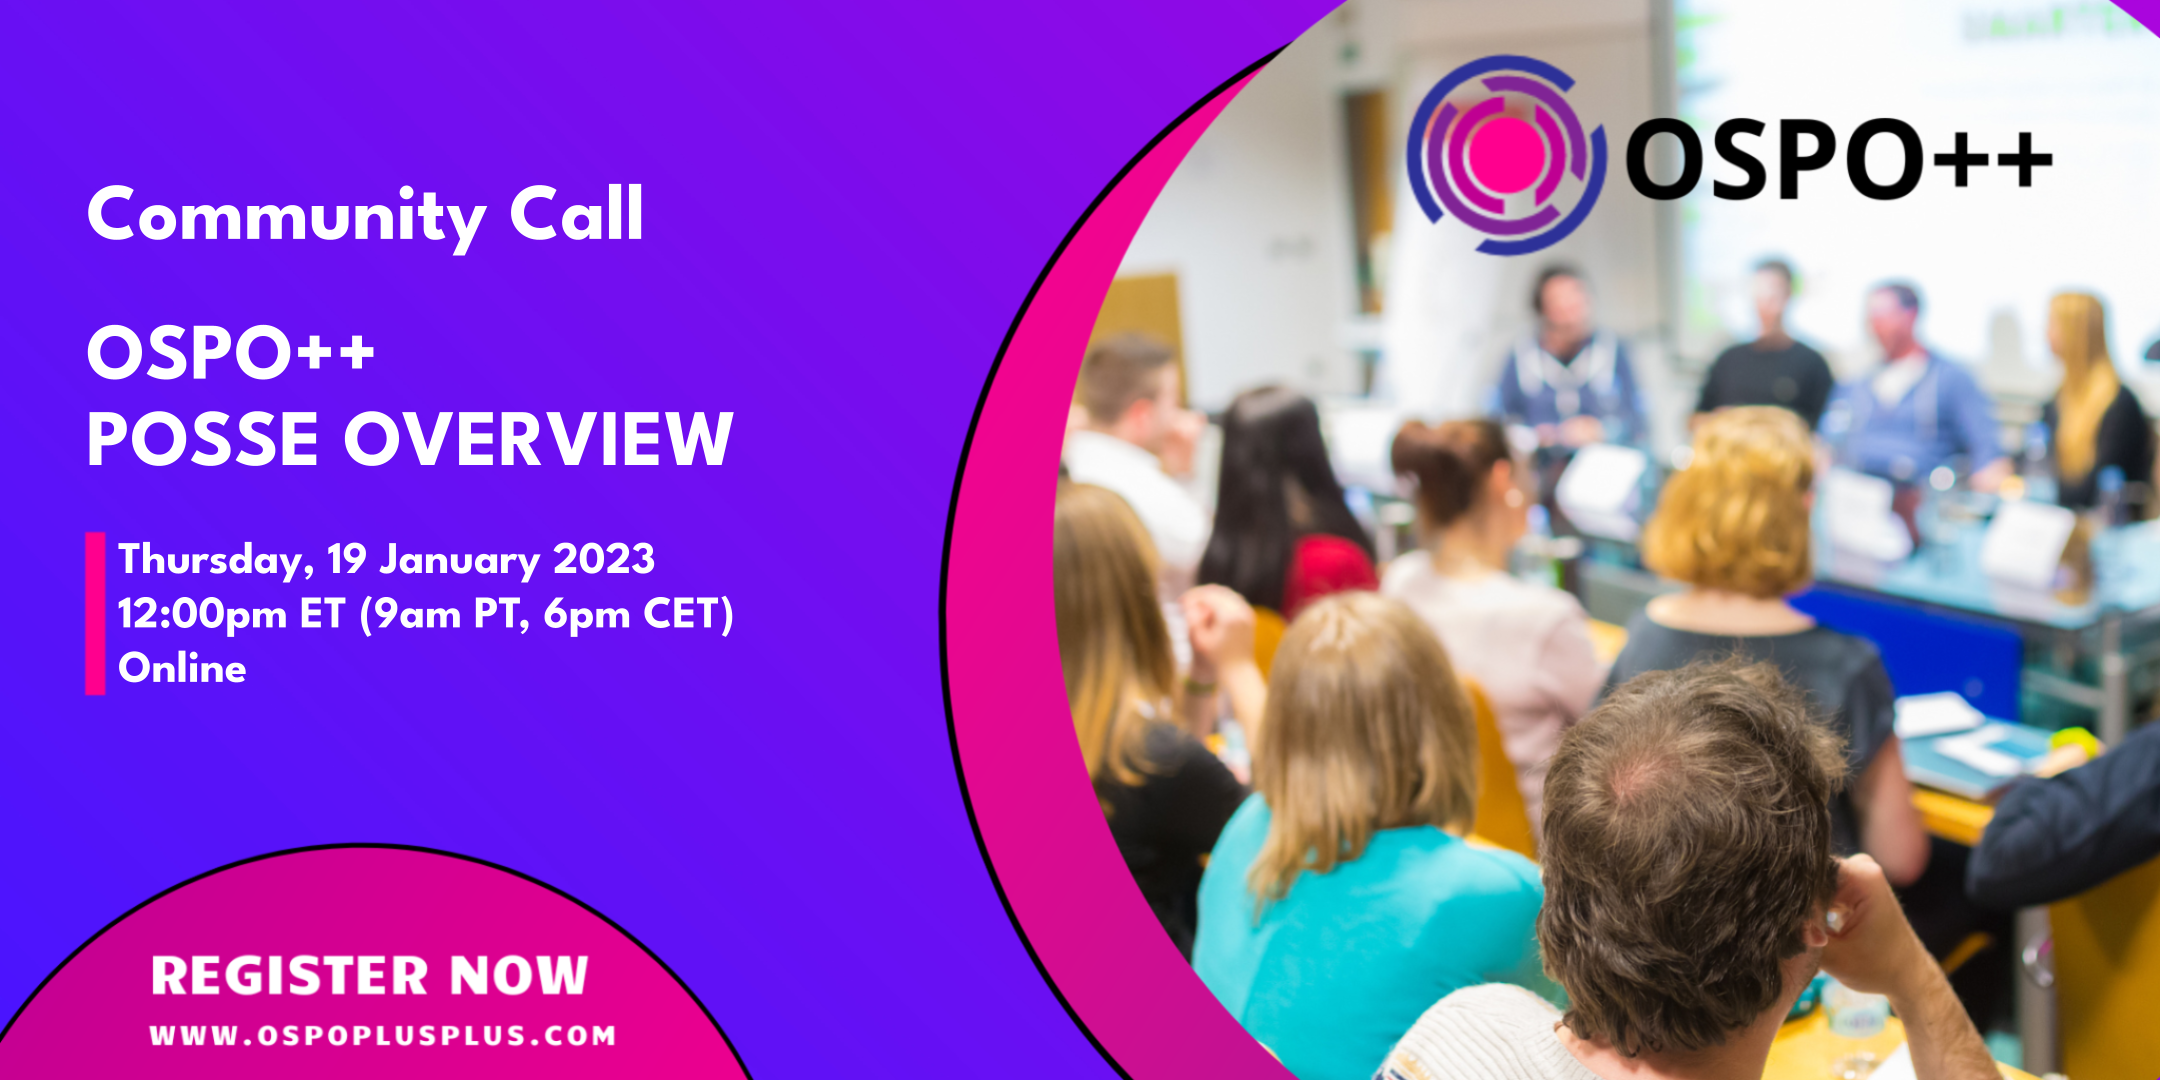
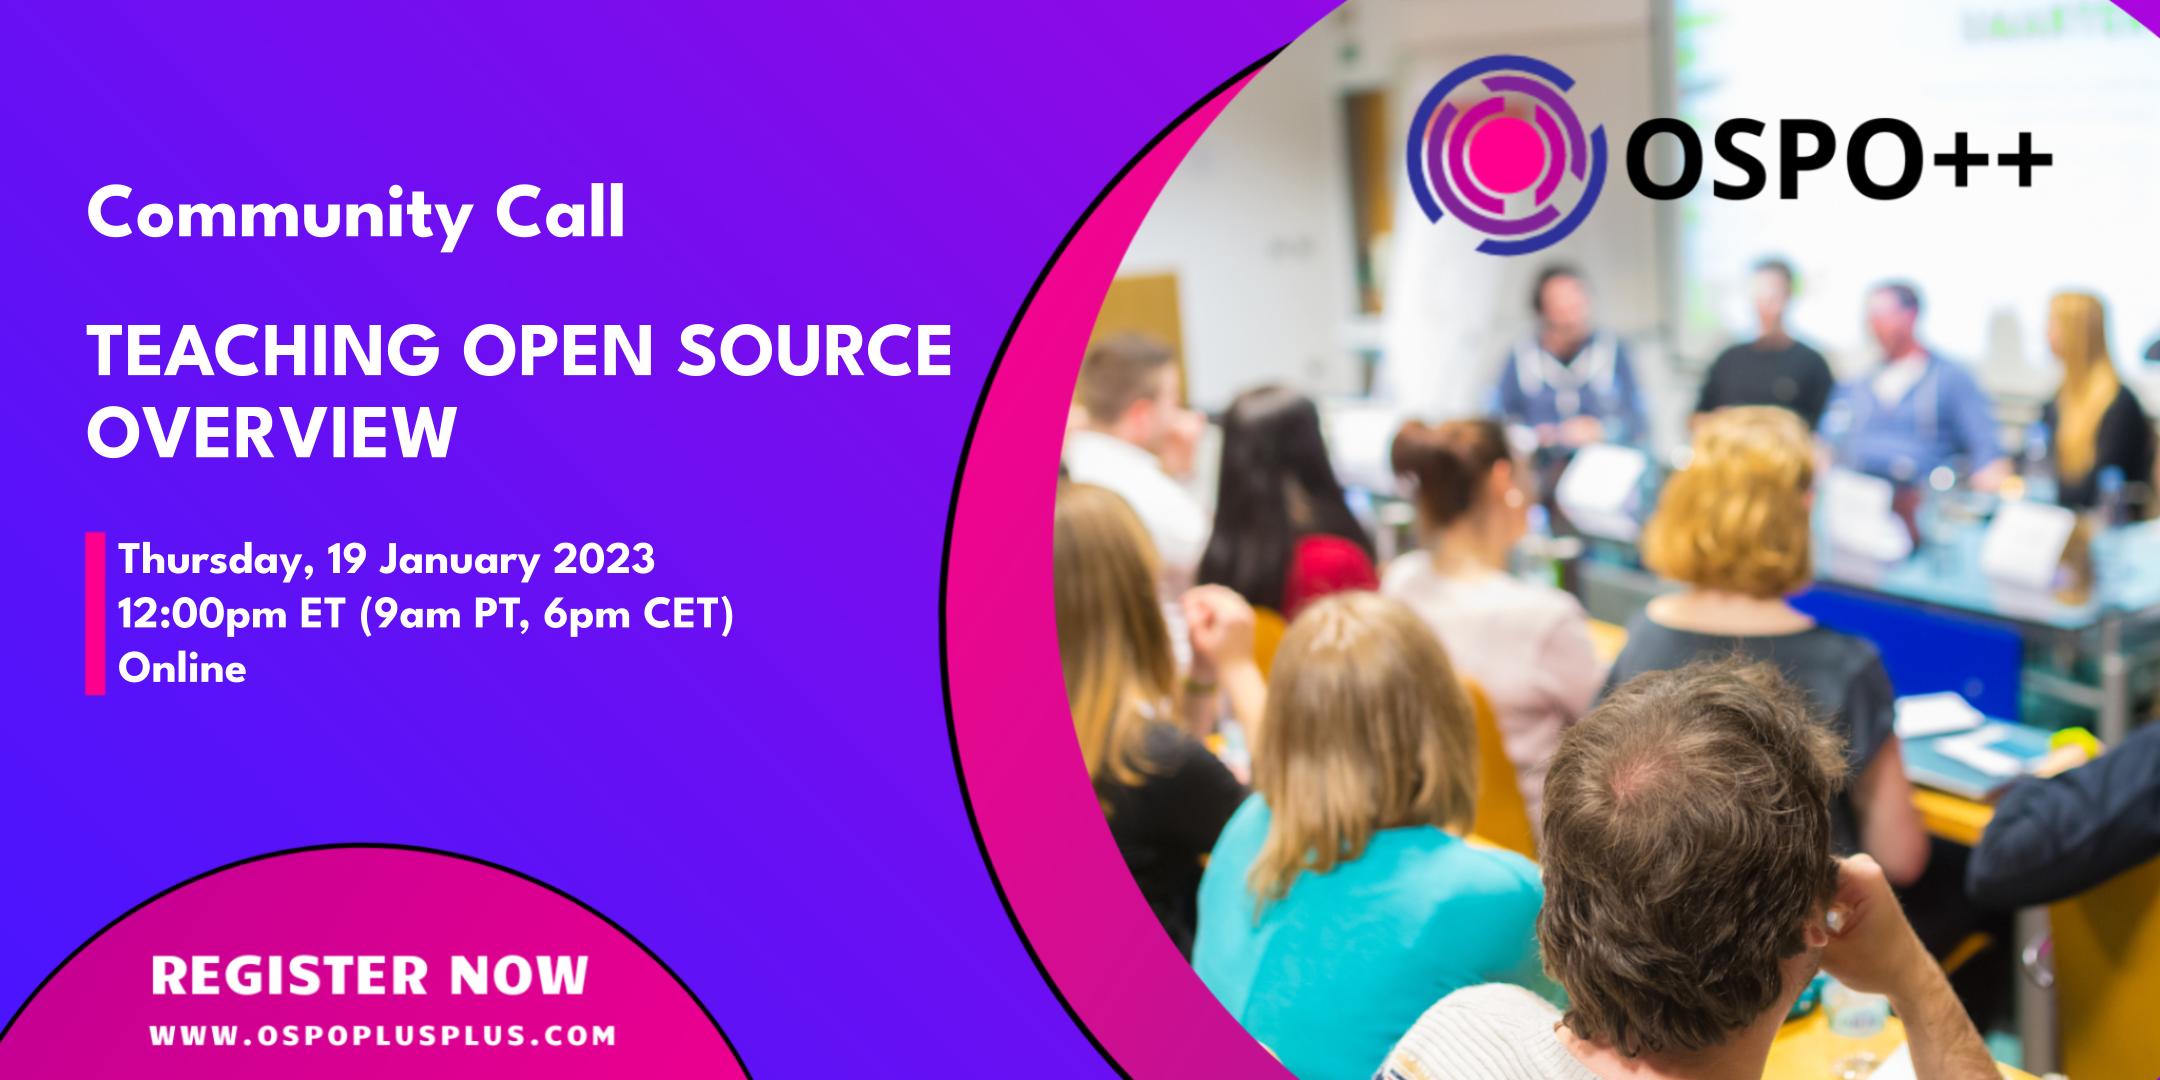
Adding content to the events page

Changed region(s): [[0.031, 0.275, 0.4343, 0.4278], [0.062, 0.1528, 0.3102, 0.2444]]

diff --git a/layouts/events/list.html b/layouts/events/list.html
@@ -53,8 +53,8 @@
         </div>
       </div>
       {{ end }}
-      <div class="container text-center pb-4 mb-4">
-        <h3 class="display-4">Past Working Groups Page</h3>
+      <div class="container text-left pb-4 mb-4">
+        <h3 class="display-4">Past Working Groups</h3>
         <p class="lead"> {{.Content}}</p>
       </div>
     </div>

diff --git a/content/events/_index.md b/content/events/_index.md
@@ -4,5 +4,37 @@ subtitle: "Welcome to the OSPO++ Events page. This is the place where you will f
 draft: false
 ---
 
-
-Lorem ipsum dolor sit amet consectetur adipisicing elit. Itaque, atque voluptatibus quasi tempora unde earum ut nam ex optio inventore quia corrupti? Alias iusto quisquam magni veniam nobis. Qui, obcaecati?
+- Oct 7, 2021 - OSPO++ University & Academia: “Open Science” - Karthik Ram, UCBerkley & Paul Nagy, JHU
+- Oct 7, 2021 - LAUNCH: OSPO++ Governments & Agencies: “Policy Goals with Open Source” - Hosts: Clare Dillon, Leslie Hawthorn, Astor
+- Sept 28, 2021 - OSPO++ Luncheon @ OSPOCon Seattle
+- Sept 9, 2021 - OSPO++ and the Cascadia Innovation Corridor
+- July 17, 2021 - How OSPOs can engage their whole organization
+- July 1, 2021 - Teaching Open Source, Teaching Software Engineering with Open Source. Teaching Community Engagement through Open Source
+- June 17, 2021 - Collaboration Network Case Studies, applicability to OSPOs
+- June 3, 2021 - Legal Needs of OSPOs
+- May 24, 2021 - Special Seminar: The Evolution of Open Source @ Microsoft
+- May 5, 2021 - Deep Dive: UC Santa Cruz’s CROSS program, Open@RIT, Semester of Code @JHU
+- April 22, 2021 - OSPO value to students and researchers
+- Mar 22, 2021 - OSPO-to-OSPO Collaboration & Pitching Sideways
+- Feb 25, 2021 - Open Source & Ireland’s Innovation Ecosystem
+- Feb 11, 2021 - OSPO as a tool for Policy agendas
+- Jan 28, 2021 - Community Discussion
+- Jan 14, 2021 - Government OSPOs (report from OFE/OSPO++ Event)
+- Dec 17, 2020 - Writing your OSPO headcount job listing
+- Dec 2, 2020 - Breakouts: Events, Pitching Up, Seminar Series, #defineyouropensource
+- Oct 29, 2020 - Pitching Up to Organization Leadership
+- Oct 15, 2020 - How this group gets work done, and what to work on
+- Oct 1, 2020 - OSPO Community & Collaboration
+- Sept 3, 2020 - OSPO++ Camp: OSPO++ In Practice in Governments
+- Aug 20, 2020 - OSPO++ Camp: OSPO++ In Practice @ Universities
+- Aug 6, 2020 - OSPO++ Camp: The Shape of an OSPO++
+- July 23, 2020 - OSPO++ Camp: Social Impact, Diversity and Inclusion (LIVE @ Baltimore Data Day)
+- July 9, 2020 - OSPO++ Camp: Why OSPO++? Why now?
+- June 25, 2020 - Why we need an OSPO++ in Ireland - Clare Dillon, Open Ireland Network
+- June 11, 2020 - Eclipse Foundation - Gael Blondelle, Eclipse Foundation
+- June 4, 2020 - OS & Institutionally: Panel Discussion with OSI’s Executive Director & Board President - Patrick Masson & Josh Simmons, OSI
+- May 21, 2020 - OSPO++ at JHU improving University Output - Sayeed Choudhury, Johns Hopkins University
+- May 14, 2020 - OSPO++ & Open Source as a Movement - Danese Copper, NearForm
+- May 7, 2020 - Organizing/Engineering OSPO++, JHU, Paris, Baltimore - Jacob Green, OSPO++
+- April 30, 2020 - Industry OSPO, what is it? - Kevin Fleming, Bloomberg LP OSPO
+- April 23, 2020 - Metrics strategy for University OSPO++’s - Georg Link, Bitergia

diff --git a/content/events/wp-2021-11-08.md b/content/events/wp-2021-11-08.md
@@ -1,0 +1,22 @@
+---
+title: When Institutions Cooperate
+image: "/ospoplusplus/images/events/wp-2021-11-08.png"
+date: 2021-11-08
+draft: false
+tags: ["OSPO"]
+---
+
+This special 2 hour OSPO++ Workshop happened live from Paris as part the in-person Paris Open Source Global Forum (Nov 8) and at the start of the Paris Open Source Experience (Nov 9 & 10).
+
+Three Institutions, Two OSPOs, and Shared Policy Goals:
+- [St. Francis Neighborhood Center - West Baltimore](https://www.stfranciscenter.org/)
+- [City of Paris, France](https://opensource.paris.fr/ossparis/)
+- [Johns Hopkins University](https://drcc.library.jhu.edu/open-source-programs-office/)
+
+We brought together perspectives on institutional-to-institution cooperation from politicians, academics, and community leaders, while showcasing a real-world case-study of Open Source and Policy Cooperation.
+
+- Insightful Keynotes by leading politicians
+- Quick global briefings on OSPOs from OSPOs
+- Panel discussion with Neighborhood Community Members
+- Panel discussion with Developer Community Members
+- Demos

diff --git a/content/events/wp-2021-11-11.md b/content/events/wp-2021-11-11.md
@@ -1,0 +1,20 @@
+---
+title: Universities & Academia
+image: "/ospoplusplus/images/events/wp-2021-11-11.png"
+date: 2021-11-11
+draft: false
+tags: ["OSPO"]
+---
+
+### Measuring OSPOs, Measuring Open Source, Measuring Impact - Theory to Practice
+
+**When:** 9am PT, 12pm EDT, 6pm CET on Thursday November 11, 2021
+
+**Guests:**
+- [Matt Germanprez](https://www.unomaha.edu/college-of-information-science-and-technology/about/faculty-staff/matt-germonprez.php), Univeristy of Omaha
+- [Kathik Ram](https://ram.berkeley.edu/), UC Berkley
+- [Georg Link](https://www.linkedin.com/in/georglink/), Bitergia
+- [Peace Ojemeh](https://www.linkedin.com/in/peace-ojemeh-0b5bb2151/), Sugar Labs
+- [Sean Gobbins](https://ospoplusplus.com/past-working-groups/#:~:text=%2C%20Sugar%20Labs-,Sean%20Gobbins,-%2C%20University%20of%20Missouri), University of Missouri-Columbia
+- [Stephen Jacobs](https://www.linkedin.com/in/itprofjacobs/), Rochester Institute of Technology
+- [Emi Simpson](https://opensource.ieee.org/emi), Rochester Institute of Technology

diff --git a/content/events/cc-2023-01-19.md b/content/events/cc-2023-01-19.md
@@ -1,5 +1,5 @@
 ---
-title: OSPO++ POSSE Overview
+title: OSPO++ Teaching OpenSource
 type: redirects
 redirect: "https://www.eventbrite.com/e/ospo-posse-overview-tickets-449451681077"
 image: "/ospoplusplus/images/events/cc-2023-01-19.png"
@@ -7,4 +7,4 @@ date: 2023-01-19
 draft: false
 tags: ["OSPO"]
 ---
-In this Community Call Heidi Ellis will give an overview of POSSE (Professors' Open Source Software Experience). POSSE is a cultural immersion in the tools and practices of open source communities, designed for professors looking for ways to bring their students into active participation in those communities.
+In this Community Call Heidi Ellis and Greg Hislop will talk about the educational opportunities provided by the TeachingOpenSource community.

diff --git a/content/events/wp-2021-12-09.md b/content/events/wp-2021-12-09.md
@@ -1,0 +1,9 @@
+---
+title: Universities and Acandemia & Cities and Governments
+image: "/ospoplusplus/images/events/wp-2021-12-09.png"
+date: 2021-12-09
+draft: false
+tags: ["OSPO"]
+---
+
+As 2021 roles to a close, we invite all those in the OSPO ecosystem, that we have interacted with virtually, in-person or have yet to meet, to come together, stop by and share in the group discussion, announce & celebrate your and other’s FOSS wins together, have a breakout chat with a friend, and join us for a drink.
